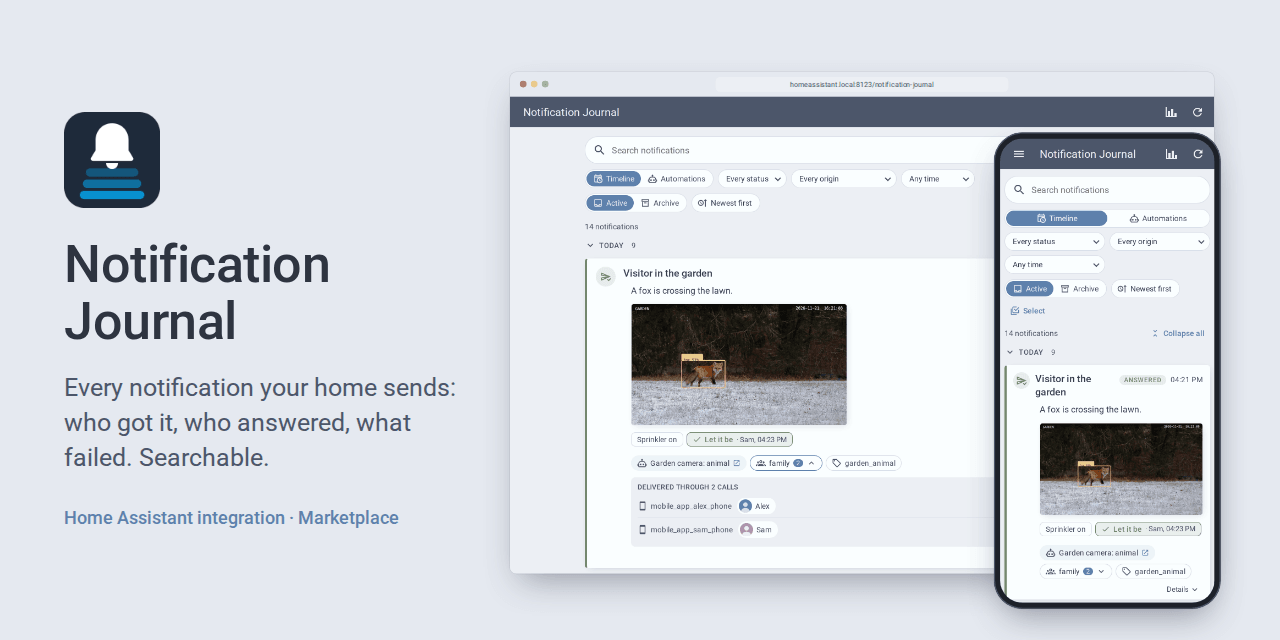
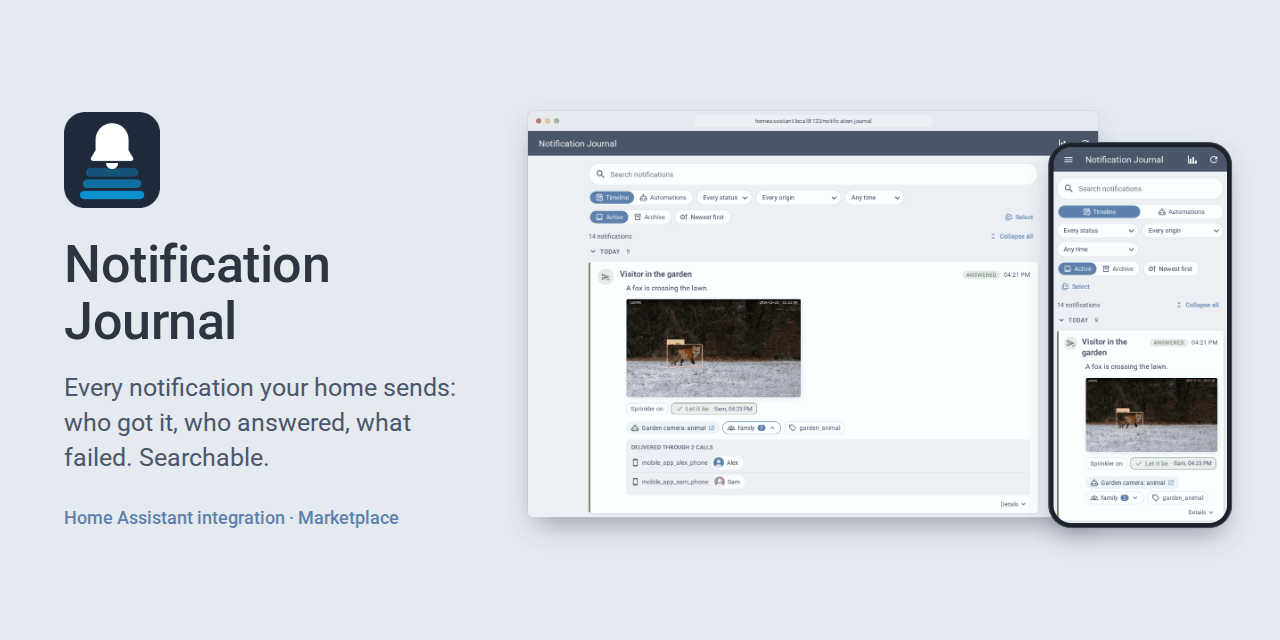
docs: reuse the hero in the social preview

Changed region(s): [[0.375, 0.125, 0.9688, 1.0], [0.6562, 0.7188, 0.6875, 0.75]]

diff --git a/scripts/screenshots/frame.html b/scripts/screenshots/frame.html
@@ -8,10 +8,12 @@
       html, body { margin: 0; background: transparent; font-family: Roboto, sans-serif; }
       body {
         --chrome: #e5e9f0; --chrome-edge: #d8dee9; --address: #eceff4; --address-text: #4c566a;
+        --text: #2e3440; --accent: #5e81ac;
         --shadow: 0 28px 60px -18px rgba(46, 52, 64, 0.45), 0 0 0 1px rgba(46, 52, 64, 0.12);
       }
       body.dark {
         --chrome: #242933; --chrome-edge: #1d2129; --address: #2e3440; --address-text: #d8dee9;
+        --text: #eceff4; --accent: #88c0d0;
         --shadow: 0 28px 60px -18px rgba(0, 0, 0, 0.7), 0 0 0 1px rgba(0, 0, 0, 0.5);
       }
       #stage { display: inline-block; position: relative; padding: 40px 48px 64px; }
@@ -34,20 +36,20 @@
         padding: 11px; border-radius: 52px; background: #1d2129; box-shadow: var(--shadow), inset 0 0 0 2px #4c566a;
       }
       .phone img { border-radius: 41px; }
-      .hero .phone { position: absolute; right: 48px; bottom: 40px; }
+      .hero { position: relative; }
       .hero .window { margin-right: 300px; }
-      /* The repository's social preview: 1280 × 640, opaque, the name beside a scaled-down hero. */
+      .hero .phone { position: absolute; right: 0; bottom: -24px; }
+      /* The repository's social preview: the name beside the hero, scaled to fit. */
       #stage.social {
         display: block; width: 1280px; height: 640px; padding: 0; overflow: hidden;
-        background: #e5e9f0; color: #2e3440;
+        background: var(--chrome); color: var(--text);
       }
+      .social .hero { position: absolute; transform-origin: top left; }
       .copy { position: absolute; left: 64px; top: 0; bottom: 0; width: 400px; display: flex; flex-direction: column; justify-content: center; }
       .copy img { width: 96px; height: 96px; margin-bottom: 28px; }
       .copy h1 { margin: 0 0 20px; font-size: 52px; font-weight: 500; line-height: 1.1; letter-spacing: -0.5px; }
-      .copy p { margin: 0; font-size: 25px; line-height: 1.4; color: #4c566a; }
-      .copy small { margin-top: 32px; font-size: 18px; color: #5e81ac; font-weight: 500; }
-      .scaled { position: absolute; left: 510px; top: 72px; transform: scale(0.55); transform-origin: top left; }
-      .scaled .phone { position: absolute; left: 880px; top: 110px; }
+      .copy p { margin: 0; font-size: 25px; line-height: 1.4; color: var(--address-text); }
+      .copy small { margin-top: 32px; font-size: 18px; color: var(--accent); font-weight: 500; }
     </style>
   </head>
   <body>
@@ -79,25 +81,38 @@
         frame.append(await image(name));
         return frame;
       };
-      const layout = params.get("layout");
-      if (layout === "social") {
-        stage.classList.add("social");
+      const hero = async (a, b) => {
+        const pair = document.createElement("div");
+        pair.className = "hero";
+        pair.append(await browser(a), await phone(b));
+        return pair;
+      };
+      /** Scales the hero into the area right of the copy, keeping the stage's margins. */
+      const fit = (element, { left, top, right, bottom }) => {
+        const box = element.getBoundingClientRect();
+        const height = Math.max(...[...element.children].map((child) => child.getBoundingClientRect().bottom)) - box.top;
+        const scale = Math.min((right - left) / box.width, (bottom - top) / height);
+        element.style.transform = `scale(${scale})`;
+        element.style.left = `${right - box.width * scale}px`;
+        element.style.top = `${(top + bottom - height * scale) / 2}px`;
+      };
+      const [layout, a, b] = ["layout", "a", "b"].map((key) => params.get(key));
+      stage.classList.add(layout);
+      if (layout === "window") {
+        stage.append(await browser(a));
+      } else if (layout === "hero") {
+        stage.append(await hero(a, b));
+      } else if (layout === "social") {
         const copy = document.createElement("div");
         copy.className = "copy";
         copy.innerHTML =
           '<img src="icon.png" alt="" /><h1>Notification Journal</h1>' +
           "<p>Every notification your home sends: who got it, who answered, what failed. Searchable.</p>" +
           "<small>Home Assistant integration · Marketplace</small>";
-        const scaled = document.createElement("div");
-        scaled.className = "scaled";
-        scaled.append(await browser(params.get("a")), await phone(params.get("b")));
-        stage.append(copy, scaled);
-      } else {
-        stage.append(await browser(params.get("a")));
-      }
-      if (layout === "hero") {
-        stage.classList.add("hero");
-        stage.append(await phone(params.get("b")));
+        await copy.querySelector("img").decode();
+        const pair = await hero(a, b);
+        stage.append(copy, pair);
+        fit(pair, { left: 528, top: 40, right: 1232, bottom: 600 });
       }
       await document.fonts.ready;
       document.body.dataset.ready = "1";
